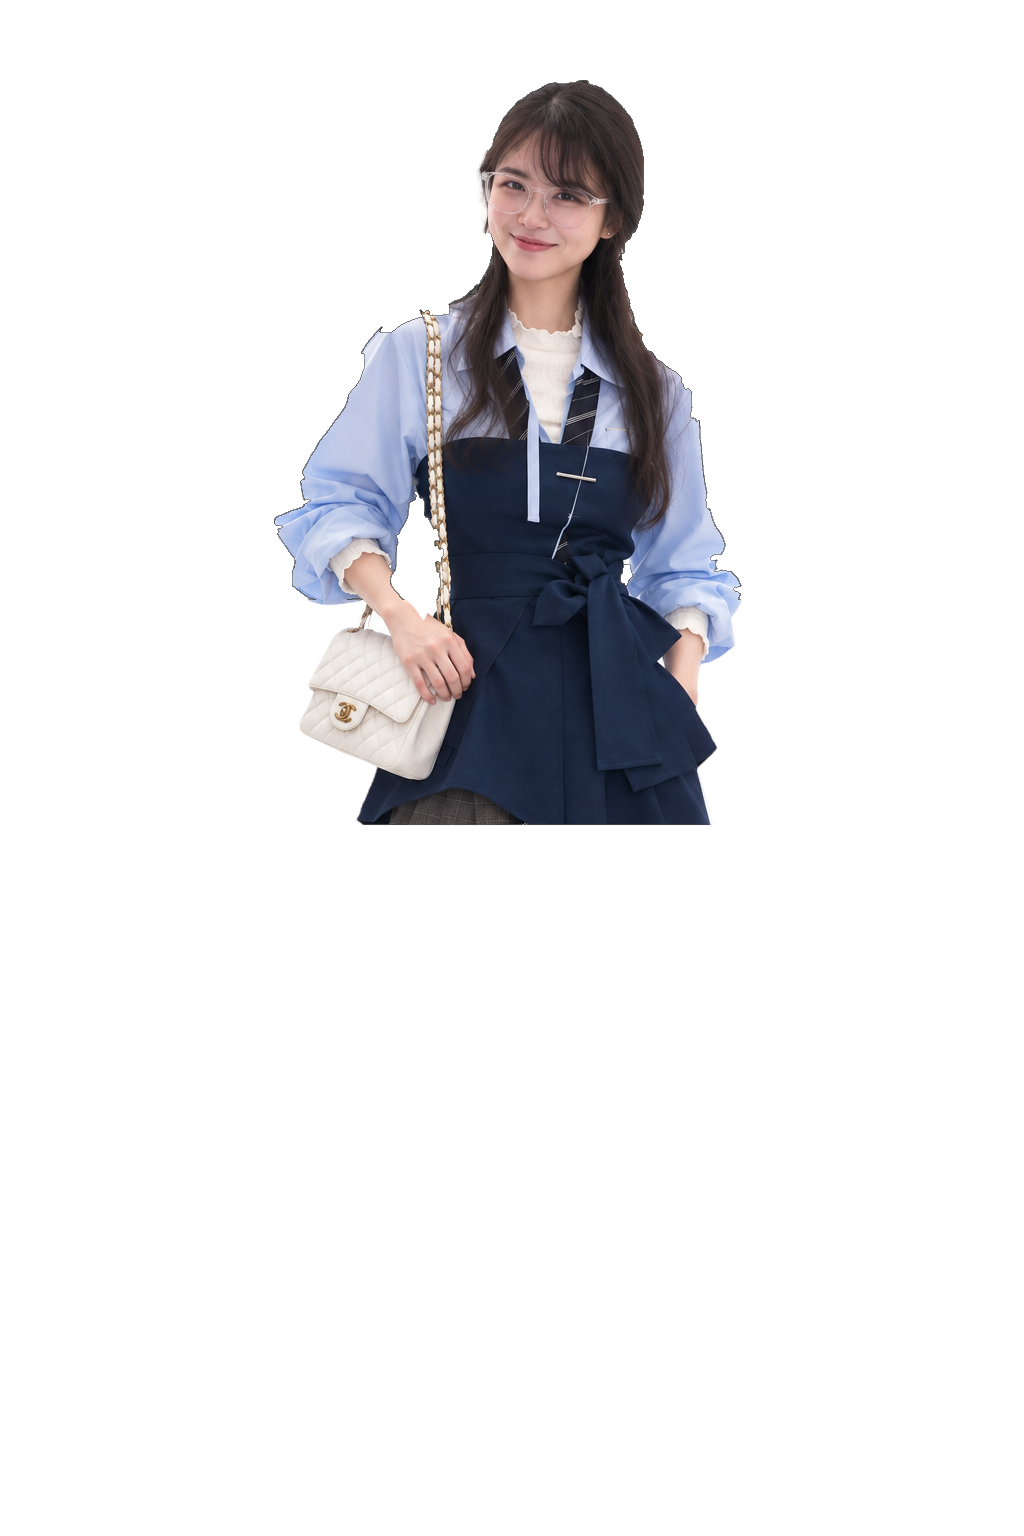
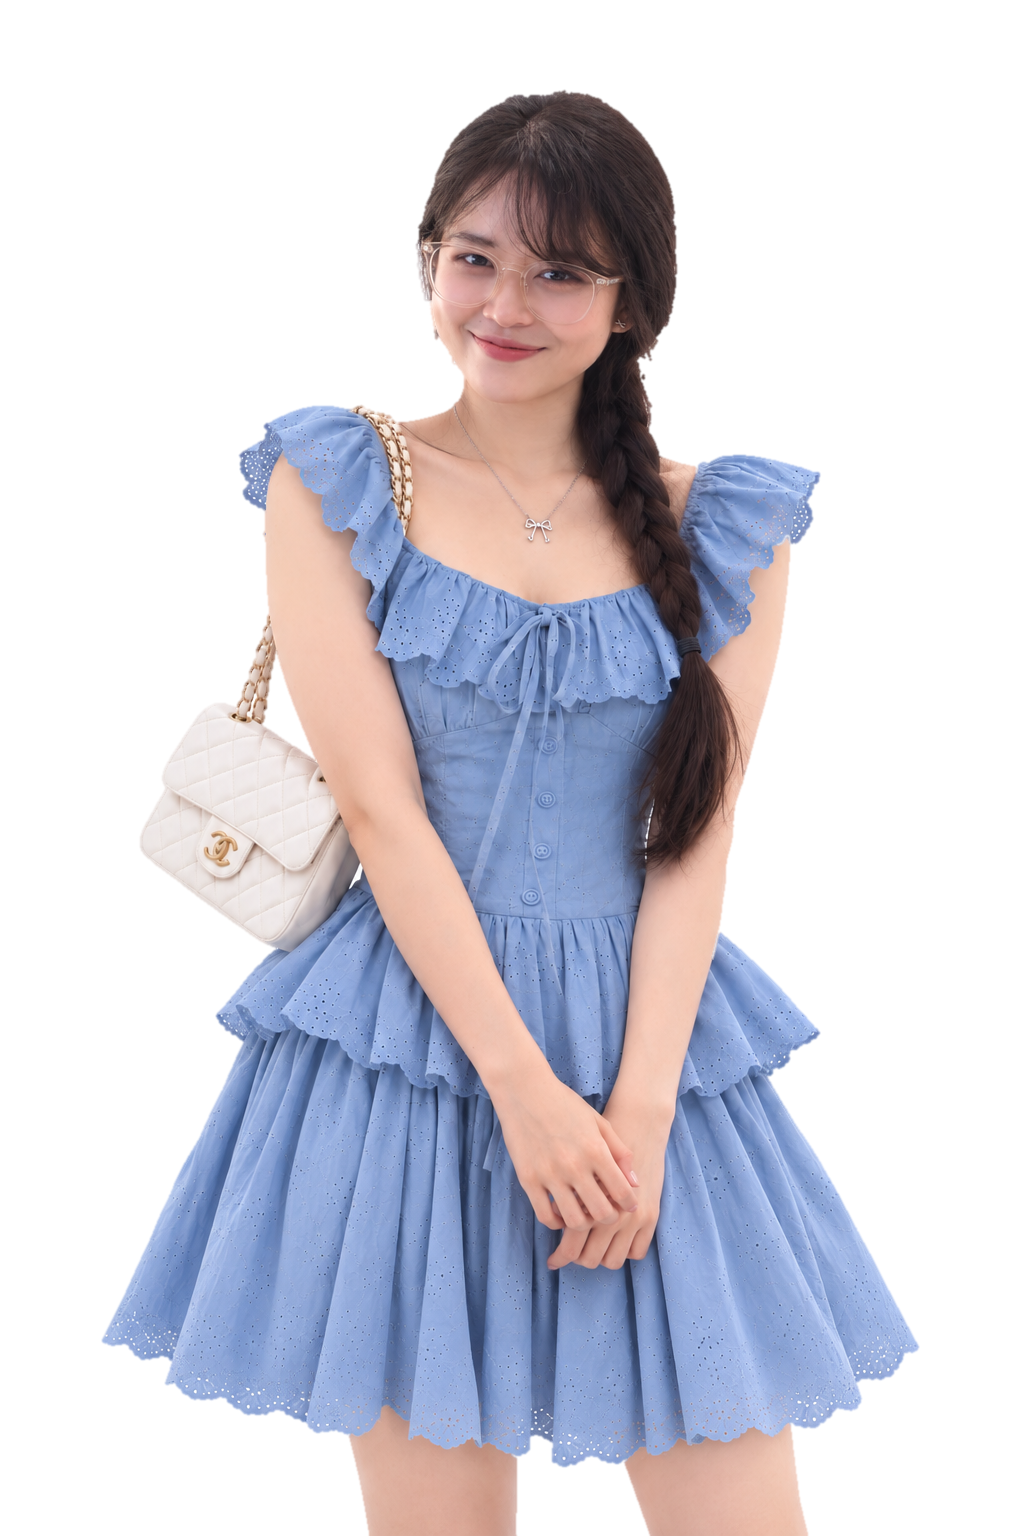
New designer photo

diff --git a/game/index.html b/game/index.html
@@ -8,7 +8,7 @@
 <link rel="preconnect" href="https://fonts.googleapis.com">
 <link rel="preconnect" href="https://fonts.gstatic.com" crossorigin>
 <link rel="stylesheet" href="https://fonts.googleapis.com/css2?family=Inter:wght@400;500;600;700;800&display=swap">
-<link rel="stylesheet" href="../assets/css/style.css?v=20261001f">
+<link rel="stylesheet" href="../assets/css/style.css?v=20261001g">
 </head>
 <body id="top" data-root="../">
 <nav class="nav" aria-label="Main">
@@ -33,7 +33,7 @@
 </section>
 </main>
 <footer class="foot"><div class="wrap"><span>Preeyanan Khamfoei · Brisbane</span><span><a href="../profile/">Contact</a> · <a href="#top">Back to top ↑</a></span></div></footer>
-<script src="../assets/js/site.js?v=20261001f"></script>
-<script src="../assets/js/game.js?v=20261001f"></script>
+<script src="../assets/js/site.js?v=20261001g"></script>
+<script src="../assets/js/game.js?v=20261001g"></script>
 </body>
 </html>

diff --git a/index.html b/index.html
@@ -8,7 +8,7 @@
 <link rel="preconnect" href="https://fonts.googleapis.com">
 <link rel="preconnect" href="https://fonts.gstatic.com" crossorigin>
 <link rel="stylesheet" href="https://fonts.googleapis.com/css2?family=Inter:wght@400;500;600;700;800&display=swap">
-<link rel="stylesheet" href="assets/css/style.css?v=20261001f">
+<link rel="stylesheet" href="assets/css/style.css?v=20261001g">
 </head>
 <body id="top" data-root="">
 <nav class="nav" aria-label="Main">
@@ -55,7 +55,7 @@
 </section>
 </main>
 <footer class="foot"><div class="wrap"><span>Preeyanan Khamfoei · Brisbane</span><span><a href="profile/">Contact</a> · <a href="#top">Back to top ↑</a></span></div></footer>
-<script src="assets/js/site.js?v=20261001f"></script>
-<script src="assets/js/dial.js?v=20261001f"></script>
+<script src="assets/js/site.js?v=20261001g"></script>
+<script src="assets/js/dial.js?v=20261001g"></script>
 </body>
 </html>

diff --git a/artist/index.html b/artist/index.html
@@ -8,7 +8,7 @@
 <link rel="preconnect" href="https://fonts.googleapis.com">
 <link rel="preconnect" href="https://fonts.gstatic.com" crossorigin>
 <link rel="stylesheet" href="https://fonts.googleapis.com/css2?family=Inter:wght@400;500;600;700;800&display=swap">
-<link rel="stylesheet" href="../assets/css/style.css?v=20261001f">
+<link rel="stylesheet" href="../assets/css/style.css?v=20261001g">
 </head>
 <body id="top" data-root="../" style="--c:#8b5020">
 <nav class="nav" aria-label="Main">
@@ -44,6 +44,6 @@
 </nav></div>
 </main>
 <footer class="foot"><div class="wrap"><span>Preeyanan Khamfoei · Brisbane</span><span><a href="../profile/">Contact</a> · <a href="#top">Back to top ↑</a></span></div></footer>
-<script src="../assets/js/site.js?v=20261001f"></script>
+<script src="../assets/js/site.js?v=20261001g"></script>
 </body>
 </html>

diff --git a/data/index.html b/data/index.html
@@ -8,7 +8,7 @@
 <link rel="preconnect" href="https://fonts.googleapis.com">
 <link rel="preconnect" href="https://fonts.gstatic.com" crossorigin>
 <link rel="stylesheet" href="https://fonts.googleapis.com/css2?family=Inter:wght@400;500;600;700;800&display=swap">
-<link rel="stylesheet" href="../assets/css/style.css?v=20261001f">
+<link rel="stylesheet" href="../assets/css/style.css?v=20261001g">
 </head>
 <body id="top" data-root="../" style="--c:#4a2a6e">
 <nav class="nav" aria-label="Main">
@@ -62,6 +62,6 @@
 </nav></div>
 </main>
 <footer class="foot"><div class="wrap"><span>Preeyanan Khamfoei · Brisbane</span><span><a href="../profile/">Contact</a> · <a href="#top">Back to top ↑</a></span></div></footer>
-<script src="../assets/js/site.js?v=20261001f"></script>
+<script src="../assets/js/site.js?v=20261001g"></script>
 </body>
 </html>

diff --git a/designer/index.html b/designer/index.html
@@ -8,7 +8,7 @@
 <link rel="preconnect" href="https://fonts.googleapis.com">
 <link rel="preconnect" href="https://fonts.gstatic.com" crossorigin>
 <link rel="stylesheet" href="https://fonts.googleapis.com/css2?family=Inter:wght@400;500;600;700;800&display=swap">
-<link rel="stylesheet" href="../assets/css/style.css?v=20261001f">
+<link rel="stylesheet" href="../assets/css/style.css?v=20261001g">
 </head>
 <body id="top" data-root="../" style="--c:#2f6f9f">
 <nav class="nav" aria-label="Main">
@@ -45,6 +45,6 @@
 </nav></div>
 </main>
 <footer class="foot"><div class="wrap"><span>Preeyanan Khamfoei · Brisbane</span><span><a href="../profile/">Contact</a> · <a href="#top">Back to top ↑</a></span></div></footer>
-<script src="../assets/js/site.js?v=20261001f"></script>
+<script src="../assets/js/site.js?v=20261001g"></script>
 </body>
 </html>

diff --git a/hobby/index.html b/hobby/index.html
@@ -8,7 +8,7 @@
 <link rel="preconnect" href="https://fonts.googleapis.com">
 <link rel="preconnect" href="https://fonts.gstatic.com" crossorigin>
 <link rel="stylesheet" href="https://fonts.googleapis.com/css2?family=Inter:wght@400;500;600;700;800&display=swap">
-<link rel="stylesheet" href="../assets/css/style.css?v=20261001f">
+<link rel="stylesheet" href="../assets/css/style.css?v=20261001g">
 </head>
 <body id="top" data-root="../" style="--c:#a8456a">
 <nav class="nav" aria-label="Main">
@@ -43,6 +43,6 @@
 </nav></div>
 </main>
 <footer class="foot"><div class="wrap"><span>Preeyanan Khamfoei · Brisbane</span><span><a href="../profile/">Contact</a> · <a href="#top">Back to top ↑</a></span></div></footer>
-<script src="../assets/js/site.js?v=20261001f"></script>
+<script src="../assets/js/site.js?v=20261001g"></script>
 </body>
 </html>

diff --git a/student/index.html b/student/index.html
@@ -8,7 +8,7 @@
 <link rel="preconnect" href="https://fonts.googleapis.com">
 <link rel="preconnect" href="https://fonts.gstatic.com" crossorigin>
 <link rel="stylesheet" href="https://fonts.googleapis.com/css2?family=Inter:wght@400;500;600;700;800&display=swap">
-<link rel="stylesheet" href="../assets/css/style.css?v=20261001f">
+<link rel="stylesheet" href="../assets/css/style.css?v=20261001g">
 </head>
 <body id="top" data-root="../" style="--c:#4f5263">
 <nav class="nav" aria-label="Main">
@@ -78,6 +78,6 @@
 </nav></div>
 </main>
 <footer class="foot"><div class="wrap"><span>Preeyanan Khamfoei · Brisbane</span><span><a href="../profile/">Contact</a> · <a href="#top">Back to top ↑</a></span></div></footer>
-<script src="../assets/js/site.js?v=20261001f"></script>
+<script src="../assets/js/site.js?v=20261001g"></script>
 </body>
 </html>

diff --git a/traveller/index.html b/traveller/index.html
@@ -8,7 +8,7 @@
 <link rel="preconnect" href="https://fonts.googleapis.com">
 <link rel="preconnect" href="https://fonts.gstatic.com" crossorigin>
 <link rel="stylesheet" href="https://fonts.googleapis.com/css2?family=Inter:wght@400;500;600;700;800&display=swap">
-<link rel="stylesheet" href="../assets/css/style.css?v=20261001f">
+<link rel="stylesheet" href="../assets/css/style.css?v=20261001g">
 </head>
 <body id="top" data-root="../" style="--c:#43843f">
 <nav class="nav" aria-label="Main">
@@ -44,6 +44,6 @@
 </nav></div>
 </main>
 <footer class="foot"><div class="wrap"><span>Preeyanan Khamfoei · Brisbane</span><span><a href="../profile/">Contact</a> · <a href="#top">Back to top ↑</a></span></div></footer>
-<script src="../assets/js/site.js?v=20261001f"></script>
+<script src="../assets/js/site.js?v=20261001g"></script>
 </body>
 </html>

diff --git a/profile/index.html b/profile/index.html
@@ -8,7 +8,7 @@
 <link rel="preconnect" href="https://fonts.googleapis.com">
 <link rel="preconnect" href="https://fonts.gstatic.com" crossorigin>
 <link rel="stylesheet" href="https://fonts.googleapis.com/css2?family=Inter:wght@400;500;600;700;800&display=swap">
-<link rel="stylesheet" href="../assets/css/style.css?v=20261001f">
+<link rel="stylesheet" href="../assets/css/style.css?v=20261001g">
 </head>
 <body id="top" data-root="../">
 <nav class="nav" aria-label="Main">
@@ -43,6 +43,6 @@
 </section>
 </main>
 <footer class="foot"><div class="wrap"><span>Preeyanan Khamfoei · Brisbane</span><span><a href="../profile/">Contact</a> · <a href="#top">Back to top ↑</a></span></div></footer>
-<script src="../assets/js/site.js?v=20261001f"></script>
+<script src="../assets/js/site.js?v=20261001g"></script>
 </body>
 </html>

diff --git a/assets/js/site.js b/assets/js/site.js
@@ -10,7 +10,7 @@ var ROLES = [
 /* Real photos. Each file is a cut-out on a transparent square 1.4x the circle,
    with the circle in the middle, so the head and props can pop out of the circle. */
 var PHOTOS = {
-  designer: 'assets/img/designer-pop6.webp',
+  designer: 'assets/img/designer-pop7.webp',
   student: 'assets/img/student-pop3.webp',
   traveller: 'assets/img/traveller-pop5.webp',
   artist: 'assets/img/artist-pop.webp',
